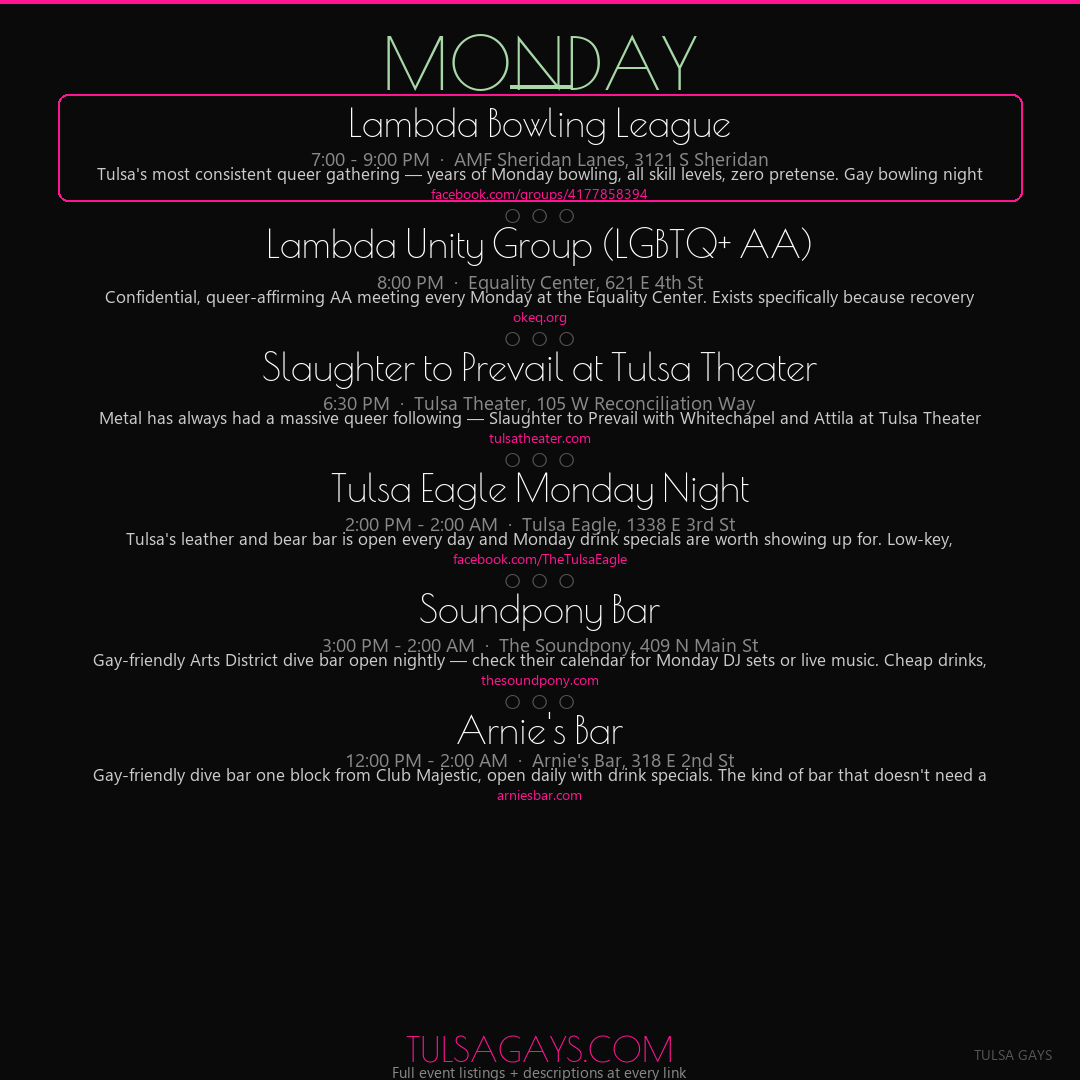
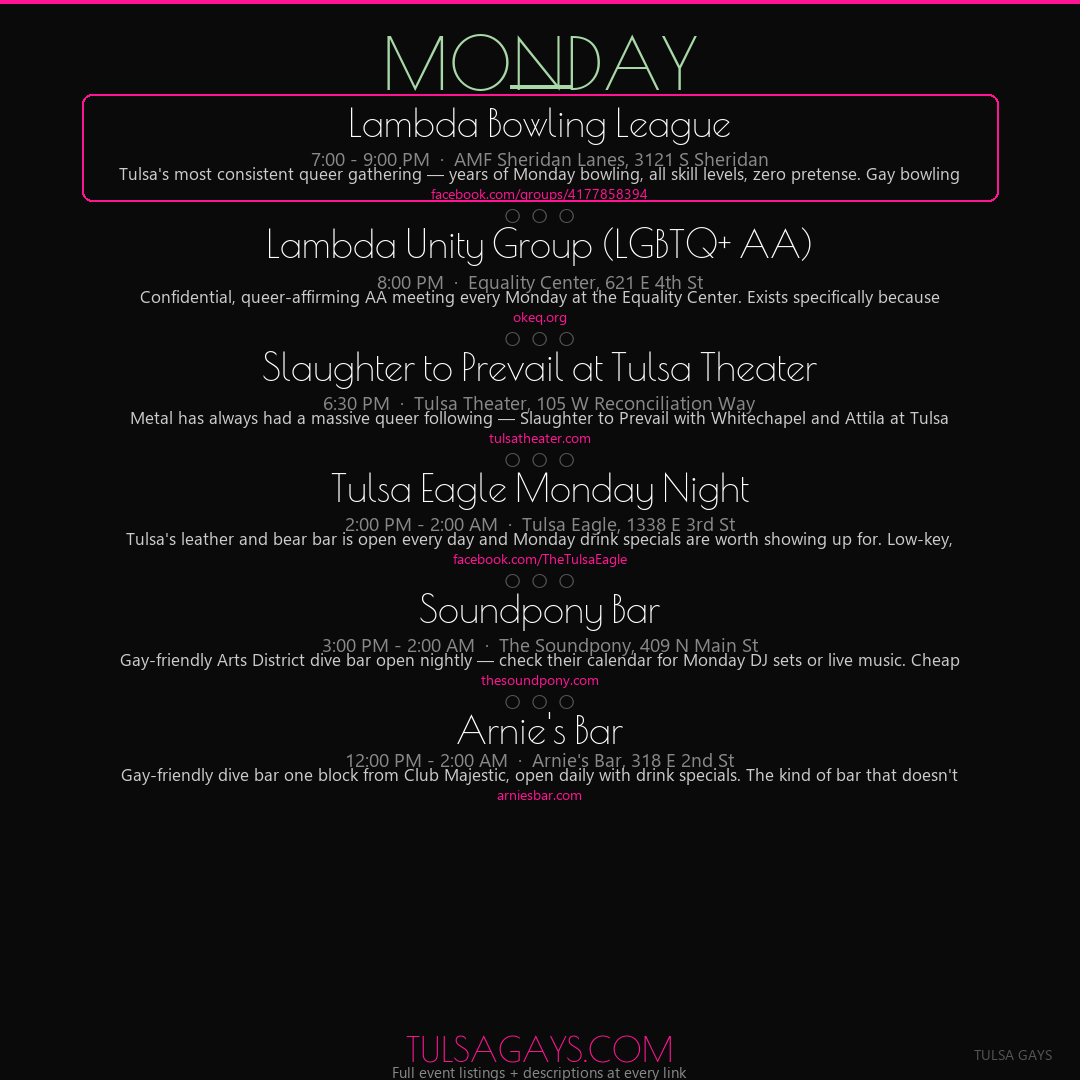
Increase slide padding PAD 72→96, regenerate all weekly slides
Brings content off the edges for better visual breathing room.

diff --git a/content/image_maker.py b/content/image_maker.py
@@ -22,7 +22,7 @@ FONTS_DIR = os.path.join(os.path.dirname(os.path.dirname(os.path.abspath(__file_
 # ── Canvas ────────────────────────────────────────────────────────────────
 SIZE = (1080, 1080)
 W, H = SIZE
-PAD = 72  # side padding
+PAD = 96  # side padding
 
 # ── Tulsa Gays Color Palette ──────────────────────────────────────────────
 BG            = (10, 10, 10)       # #0a0a0a — all slides
